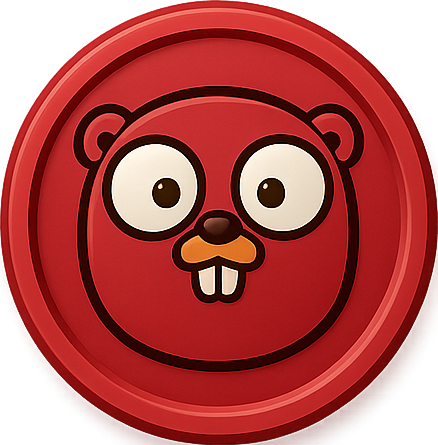
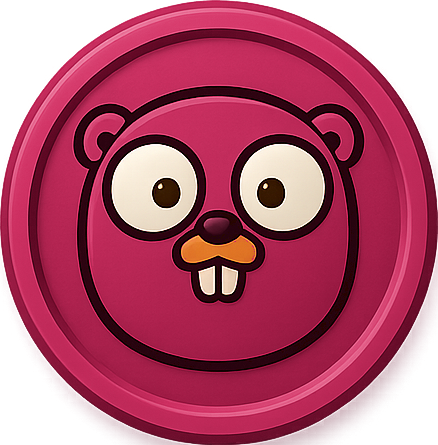
[TASK] Followup on branding changes

diff --git a/client/style.css b/client/style.css
@@ -7,27 +7,28 @@
 
 /* Theme */
 :root {
-    --bg-dark: #0f172a;
-    --bg-card: #1e293b;
-    --bg-hover: #334155;
+    --bg-dark: #18222C;
+    --bg-card: #253443;
+    --bg-hover: #414153;
 
-    --primary: #3b82f6;
-    --primary-hover: #2563eb;
-    --success: #22c55e;
-    --success-hover: #16a34a;
-    --warning: #eab308;
-    --warning-hover: #ca8a04;
-    --danger: #ef4444;
+    --primary: #00add8;
+    --primary-hover: #5dc9e2;
+    --success: #2FBF9A;
+    --success-hover: #58D6B8;
+    --warning: #E6B450;
+    --warning-hover: #F0C56E;
+    --danger: #E06C75;
+    --danger-hover: #F08C94;
 
     --text-primary: #f8fafc;
     --text-secondary: #94a3b8;
     --text-muted: #64748b;
 
     --border: #475569;
-    --border-active: #3b82f6;
+    --border-active: #5dc9e2;
 
-    --red-token: #dc2626;
-    --yellow-token: #fbbf24;
+    --red-token: #ce3262;
+    --yellow-token: #fddd00;
 }
 
 /* Layout */
@@ -356,7 +357,9 @@ input[type="text"]::placeholder {
 }
 
 @keyframes spin {
-    to { transform: rotate(360deg); }
+    to {
+        transform: rotate(360deg);
+    }
 }
 
 /* Game screen layout */
@@ -464,8 +467,12 @@ input[type="text"]::placeholder {
 }
 
 @keyframes pulse {
-    0%, 100% { opacity: 1; }
-    50% { opacity: 0.6; }
+    0%, 100% {
+        opacity: 1;
+    }
+    50% {
+        opacity: 0.6;
+    }
 }
 
 /* Game status and actions */
